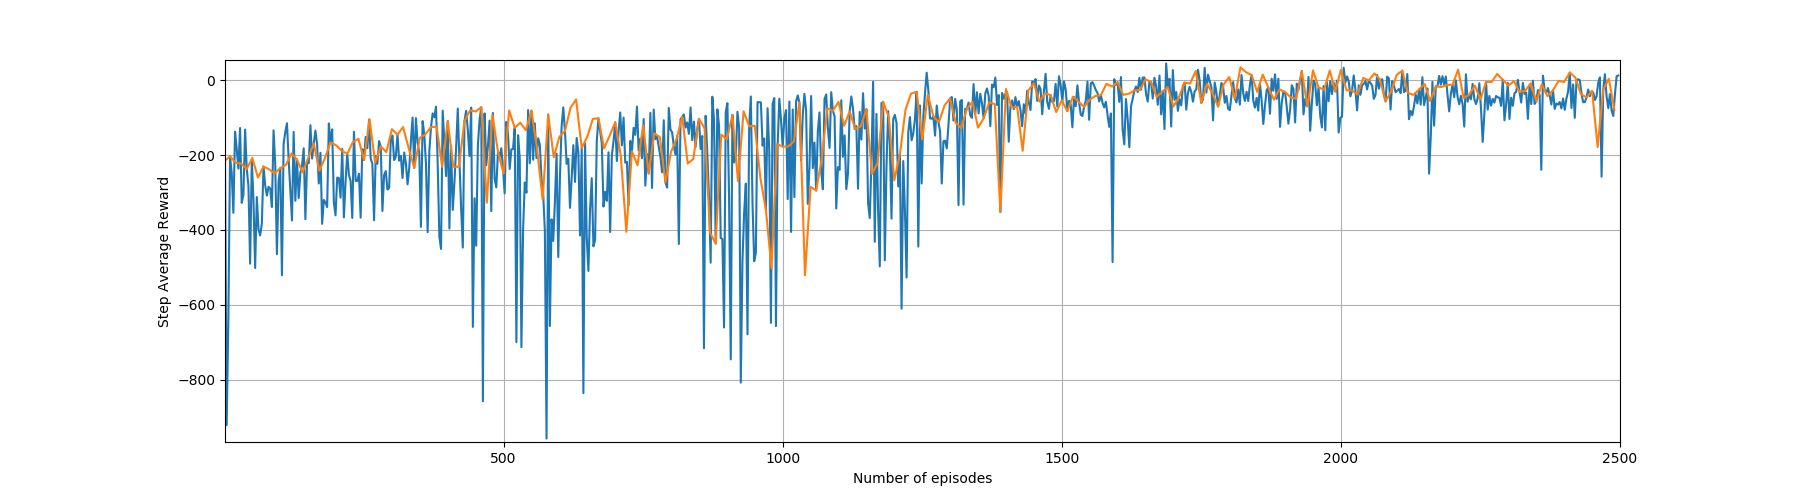
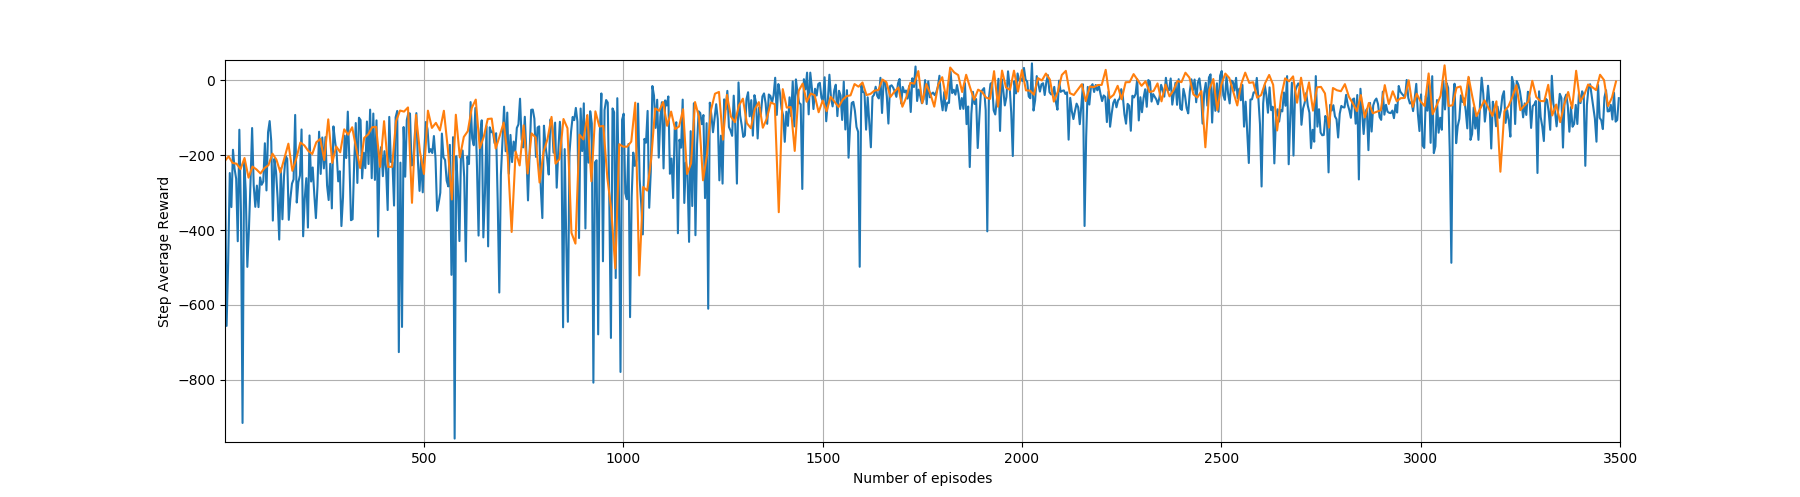
Changed a weird point about reward function

diff --git a/Agent.py b/Agent.py
@@ -418,10 +418,10 @@ class Agent:
 		distance = math.sqrt((x**2)+(y**2)+(z**2))
 		o_error = abs(phi_)+abs(theta_)+abs(psi_)
 		if distance > 3:
-			reward -= (distance + 100*o_error)
+			reward -= (distance + 10*o_error)
 
 		else:
-			reward -= (0.01*distance + 10*o_error)
+			reward -= (0.1*distance + 30*o_error)
 
 		# if distance < 1:
 		# 	reward = 2000
